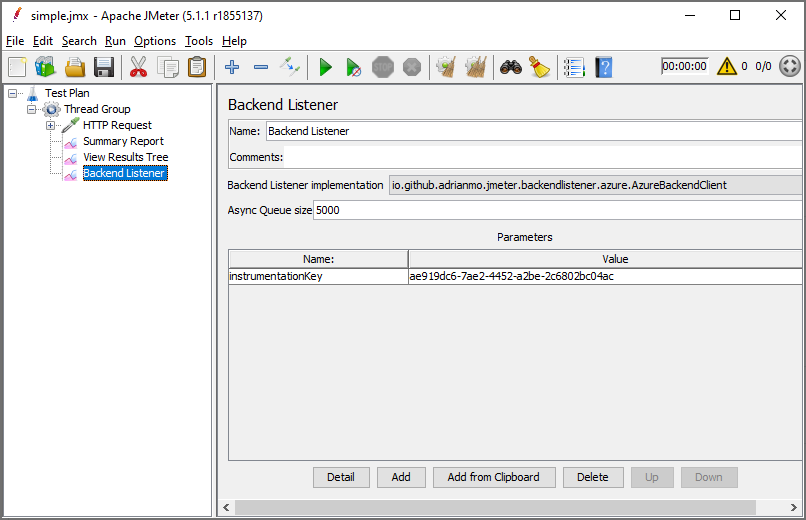
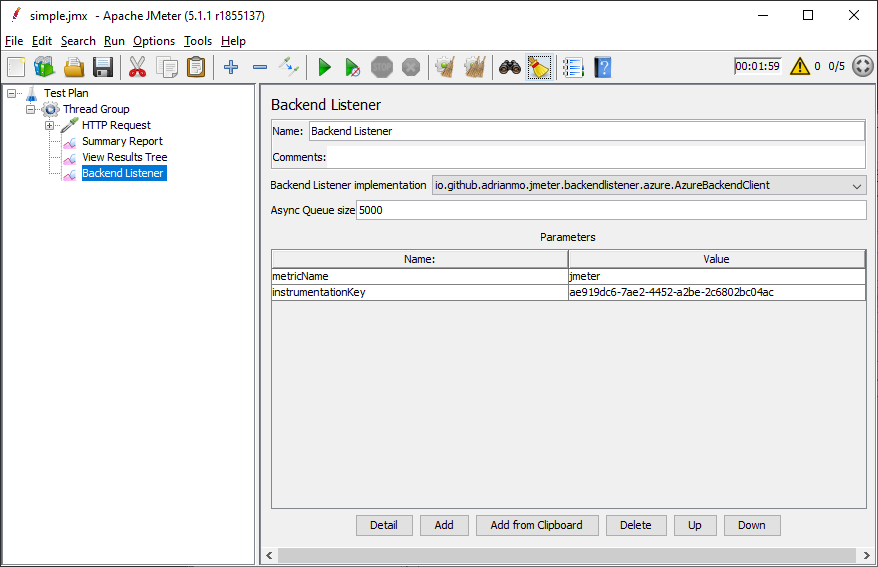
Report metrics to requests dimension

Changed region(s): [[0.0, 0.0, 1.0, 1.0]]

diff --git a/src/main/java/io/github/adrianmo/jmeter/backendlistener/azure/AzureBackendClient.java b/src/main/java/io/github/adrianmo/jmeter/backendlistener/azure/AzureBackendClient.java
@@ -3,7 +3,8 @@ package io.github.adrianmo.jmeter.backendlistener.azure;
 import com.microsoft.applicationinsights.TelemetryClient;
 import com.microsoft.applicationinsights.TelemetryConfiguration;
 import com.microsoft.applicationinsights.internal.util.MapUtil;
-import com.microsoft.applicationinsights.telemetry.MetricTelemetry;
+import com.microsoft.applicationinsights.telemetry.Duration;
+import com.microsoft.applicationinsights.telemetry.RequestTelemetry;
 import org.apache.jmeter.config.Arguments;
 import org.apache.jmeter.samplers.SampleResult;
 import org.apache.jmeter.threads.JMeterContextService;
@@ -18,6 +19,7 @@ import java.util.Map;
 public class AzureBackendClient extends AbstractBackendListenerClient {
 
     private TelemetryClient client;
+    private static final String METRIC_NAME = "metricName";
     private static final String INSTRUMENTATION_KEY = "instrumentationKey";
 
     public AzureBackendClient() {
@@ -27,6 +29,7 @@ public class AzureBackendClient extends AbstractBackendListenerClient {
     @Override
     public Arguments getDefaultParameters() {
         Arguments arguments = new Arguments();
+        arguments.addArgument(METRIC_NAME, "jmeter");
         arguments.addArgument(INSTRUMENTATION_KEY, "");
         return arguments;
     }
@@ -38,8 +41,14 @@ public class AzureBackendClient extends AbstractBackendListenerClient {
         super.setupTest(context);
     }
 
-    private void trackMetric(String name, Double value, SampleResult sr) {
+    private void trackRequest(String name, SampleResult sr) {
         Map<String, String> properties = new HashMap<String, String>();
+        properties.put("Bytes", Long.toString(sr.getBytesAsLong()));
+        properties.put("SentBytes", Long.toString(sr.getSentBytes()));
+        properties.put("ConnectTime", Long.toString(sr.getConnectTime()));
+        properties.put("ErrorCount", Integer.toString(sr.getErrorCount()));
+        properties.put("IdleTime", Double.toString(sr.getIdleTime()));
+        properties.put("Latency", Double.toString(sr.getLatency()));
         properties.put("BodySize", Long.toString(sr.getBodySizeAsLong()));
         properties.put("TestStartTime", Long.toString(JMeterContextService.getTestStartTime()));
         properties.put("SampleStartTime", Long.toString(sr.getStartTime()));
@@ -50,24 +59,20 @@ public class AzureBackendClient extends AbstractBackendListenerClient {
         properties.put("ResponseCode", sr.getResponseCode());
         properties.put("GrpThreads", Integer.toString(sr.getGroupThreads()));
         properties.put("AllThreads", Integer.toString(sr.getAllThreads()));
+        properties.put("SampleCount", Integer.toString(sr.getSampleCount()));
 
-        MetricTelemetry metric = new MetricTelemetry(name, value);
-        metric.setCount(sr.getSampleCount());
-        metric.setTimestamp(new Date(sr.getTimeStamp()));
-        MapUtil.copy(properties, metric.getProperties());
-        client.trackMetric(metric);
+        Date timestamp = new Date(sr.getTimeStamp());
+        Duration duration = new Duration(sr.getTime());
+        RequestTelemetry req = new RequestTelemetry(name, timestamp, duration, sr.getResponseCode(), sr.getErrorCount() == 0);
+        req.setUrl(sr.getURL());
+        MapUtil.copy(properties, req.getProperties());
+        client.trackRequest(req);
     }
 
     @Override
     public void handleSampleResults(List<SampleResult> results, BackendListenerContext context) {
         for (SampleResult sr : results) {
-            trackMetric("Bytes", (double)sr.getBytesAsLong(), sr);
-            trackMetric("SentBytes", (double)sr.getSentBytes(), sr);
-            trackMetric("ConnectTime", (double)sr.getConnectTime(), sr);
-            trackMetric("ErrorCount", (double)sr.getErrorCount(), sr);
-            trackMetric("IdleTime", (double)sr.getIdleTime(), sr);
-            trackMetric("Latency", (double)sr.getLatency(), sr);
-            trackMetric("ResponseTime", (double)sr.getTime(), sr);
+            trackRequest(context.getParameter(METRIC_NAME), sr);
         }
     }
 

diff --git a/README.md b/README.md
@@ -8,32 +8,67 @@ A JMeter plug-in that enables you to send test results to Azure Application Insi
 
 ### Description
 
-JMeter Backend Azure is a JMeter plugin enabling you to send test results to an Azure Application Insights. This plugin is inspired in the [Elasticsearch](https://github.com/delirius325/jmeter-elasticsearch-backend-listener) and [Kafka](https://github.com/rahulsinghai/jmeter-backend-listener-kafka) backend listener plugins. 
+JMeter Backend Azure is a JMeter plugin enabling you to send test results to an Azure Application Insights.  
 
-### Build
+The following test results metrics are exposed by the plugin.
 
-- To build the artifact, execute below Maven command. Make sure `JAVA_HOME` is set properly.
+- TestStartTime
+- SampleStartTime
+- SampleEndTime
+- ResponseCode
+- Duration
+- URL
+- SampleLabel
+- SampleCount
+- ErrorCount
+- Bytes
+- SentBytes
+- ConnectTime
+- IdleTime
+- ThreadName
+- GrpThreads
+- AllThreads
 
-```bash
-mvn clean package
-```
+### Plugin installation
 
-- Move the resulting JAR to your `JMETER_HOME/lib/ext`.
+Once you have built or downloaded the plugin JAR file from the [releases](https://github.com/adrianmo/jmeter-backend-azure/releases) section,
+move the JAR to your `$JMETER_HOME/lib/ext`.
 
 ```bash
 mv target/jmeter.backendlistener.azure-VERSION.jar $JMETER_HOME/lib/ext/
 ```
 
-- Restart JMeter
+Then, restart JMeter and the plugin should be loaded.
 
-### Configuring jmeter-backend-azure plug-in
+### JMeter configuration
 
-- In your **Test Pan**, right click on **Thread Group** > Add > Listener > Backend Listener
-- Choose `io.github.adrianmo.jmeter.backendlistener.azure.AzureBackendClient` as `Backend Listener Implementation`.
-- Specify the Application Insights instrumentation key as a parameter as shown in image below: 
+To make JMeter send test result metrics to Azure Application Insights, in your **Test Pan**, right click on 
+**Thread Group** > Add > Listener > Backend Listener, and choose `io.github.adrianmo.jmeter.backendlistener.azure.AzureBackendClient` as `Backend Listener Implementation`. 
+Then, specify the metric name and the Application Insights instrumentation key as a parameter as shown in image below.
 
-![Screenshot of configuration](docs/configuration.png "Screenshot of configuration")
+![Screenshot of configuration](docs/configuration.png "Screenshot of JMeter configuration")
+
+### Visualization
+
+Test result metrics are available in the **requests** dimension of your Application Insights instance. 
+In the image you can see an example of how you can visualize the duration of the requests made during your test run.
+
+![Request duration](docs/requestduration.png "Screenshot of test requests duration")
 
 ## Contributing
 
-Feel free to contribute by branching and making pull requests, or simply by suggesting ideas through the "Issues" tab.
+Feel free to contribute by forking and making pull requests, or simply by suggesting ideas through the 
+[Issues](https://github.com/adrianmo/jmeter-backend-azure/issues) section.
+
+### Build
+
+You can make changes to the plugin and build your own JAR file to test changes. To build the artifact, 
+execute below Maven command. Make sure `JAVA_HOME` is set properly.
+
+```bash
+mvn clean package
+```
+
+---
+
+This plugin is inspired in the [Elasticsearch](https://github.com/delirius325/jmeter-elasticsearch-backend-listener) and [Kafka](https://github.com/rahulsinghai/jmeter-backend-listener-kafka) backend listener plugins.
